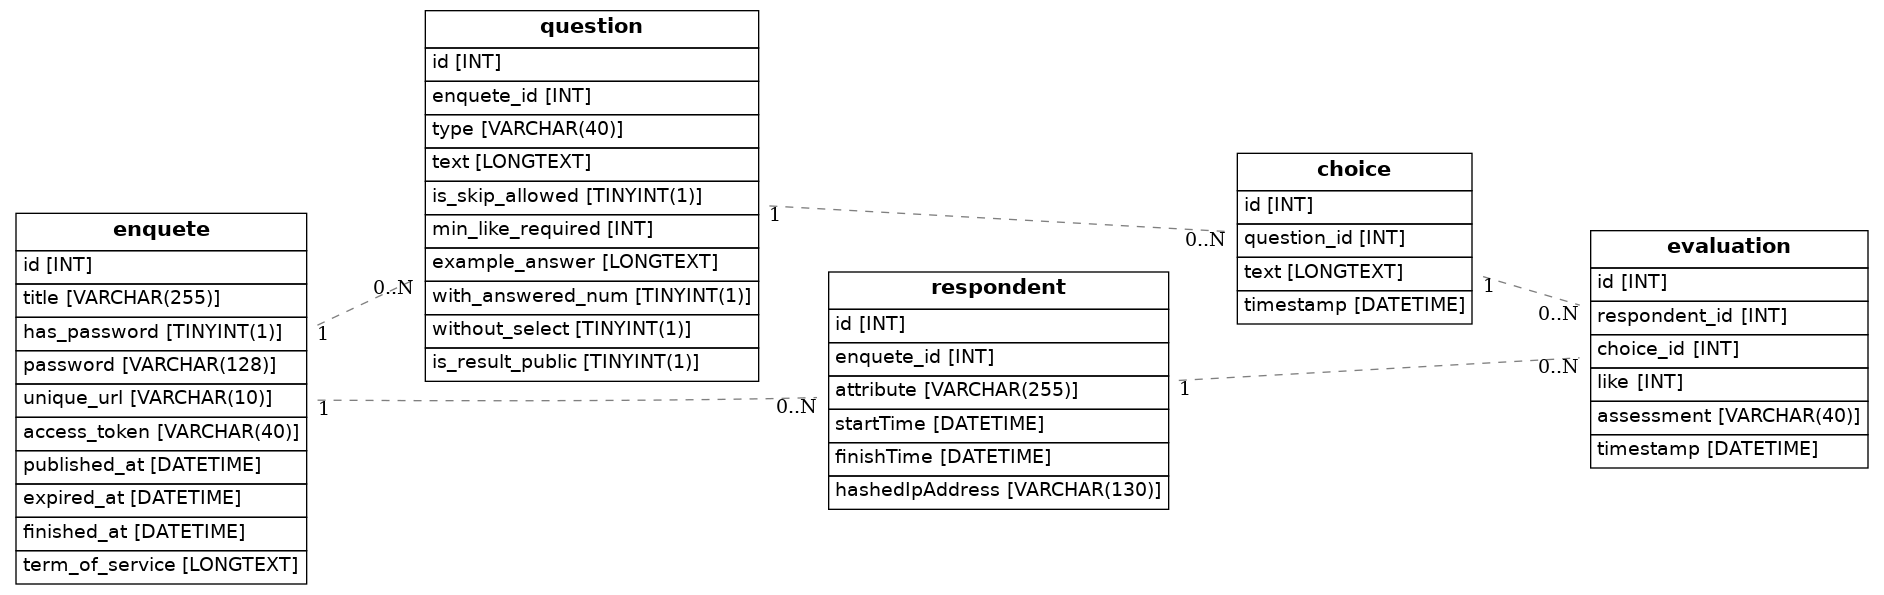
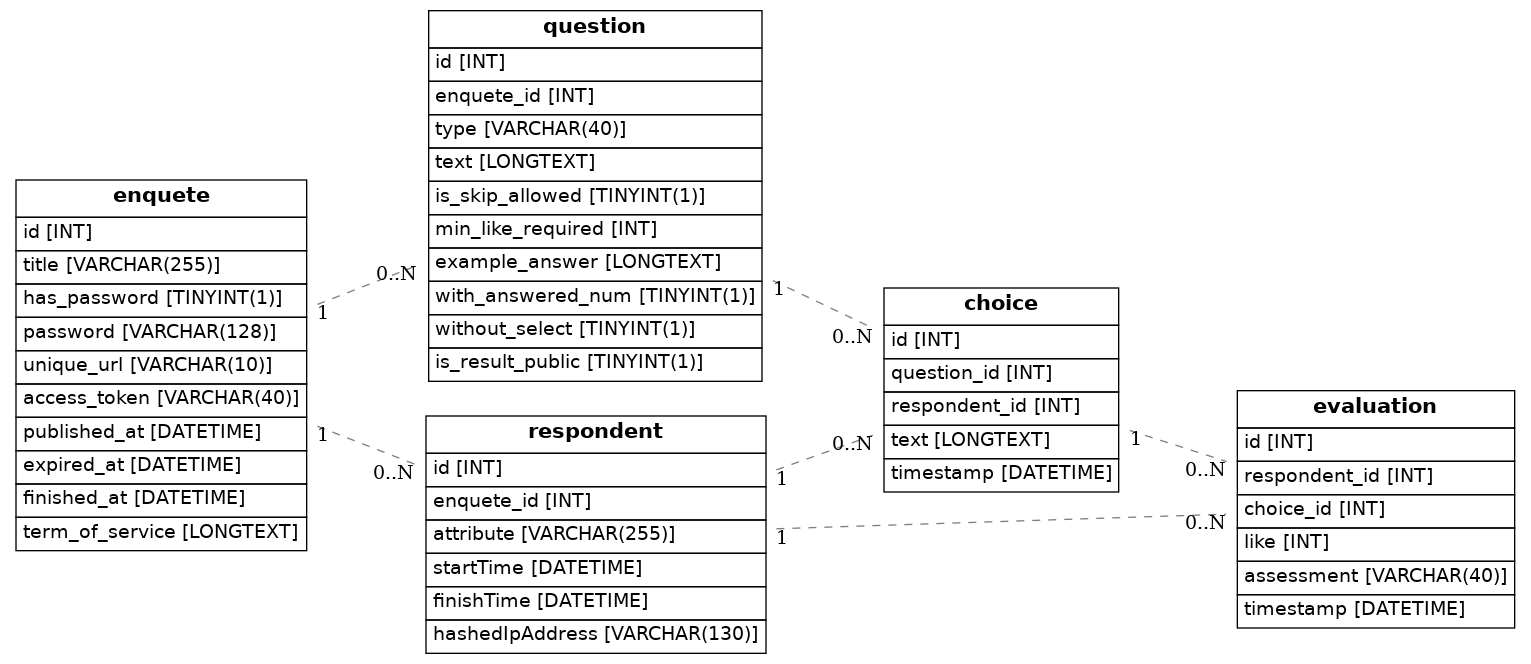
choiceモデルにrespondentの外部キーを追加

Changed region(s): [[0.0, 0.0, 1.0, 0.9983]]

diff --git a/django/AIST_survey/models/choice.py b/django/AIST_survey/models/choice.py
@@ -1,9 +1,10 @@
 import random
 
 from django.db import models
-from django.utils import timezone
-
 from . import Question
+# なぜか . からRespondentがimportできなかった
+from .respondent import Respondent
+from django.utils import timezone
 
 
 class ChoiceManager(models.Manager):
@@ -25,6 +26,7 @@ class ChoiceManager(models.Manager):
 
 class Choice(models.Model):
     question = models.ForeignKey(Question, on_delete=models.CASCADE, related_name='choices')
+    respondent = models.ForeignKey(Respondent, blank=True, null=True, on_delete=models.CASCADE)
     text = models.TextField(max_length=500)
     objects = ChoiceManager()
     timestamp = models.DateTimeField(default=timezone.now)

diff --git a/django/AIST_survey/util/add_answer.py b/django/AIST_survey/util/add_answer.py
@@ -33,7 +33,7 @@ def add_answer(enquete_id, answer_list, respondent_data, ip):
             # 自由回答のデータを追加
             if len(answer['answer']['free']) > 0:
                 for i in answer['answer']['free']:
-                    new_choice = Choice.objects.create(question=answer_question, text=i)
+                    new_choice = Choice.objects.create(question=answer_question, respondent=answer_respondent, text=i)
                     Evaluation.objects.create(
                         respondent=answer_respondent, choice=new_choice, like=1, assessment=Evaluation.PROPOSED
                     )

diff --git a/django/AIST_survey/admin.py b/django/AIST_survey/admin.py
@@ -269,13 +269,13 @@ class QuestionAdmin(admin.ModelAdmin):
 
 
 class ChoiceAdmin(admin.ModelAdmin):
-    fields = ['question', 'text', 'timestamp']
+    fields = ['question', 'respondent', 'text', 'timestamp']
     ordering = ['id']
     list_filter = [
         ('question__enquete', MyListFilter),
         ('question', ListFilterFromEnqueteForChoice)
     ]
-    list_display = ['id', 'enquete', 'question', 'text', 'timestamp']
+    list_display = ['id', 'enquete', 'question', 'respondent', 'text', 'timestamp']
     list_display_links = ['text']
 
     # list_displayに対応したメソッド

diff --git a/django/AIST_survey/migrations/0025_choice_respondent.py b/django/AIST_survey/migrations/0025_choice_respondent.py
@@ -1,0 +1,19 @@
+# Generated by Django 2.1.3 on 2020-08-12 09:56
+
+from django.db import migrations, models
+import django.db.models.deletion
+
+
+class Migration(migrations.Migration):
+
+    dependencies = [
+        ('AIST_survey', '0024_auto_20200318_1855'),
+    ]
+
+    operations = [
+        migrations.AddField(
+            model_name='choice',
+            name='respondent',
+            field=models.ForeignKey(blank=True, null=True, on_delete=django.db.models.deletion.CASCADE, to='AIST_survey.Respondent'),
+        ),
+    ]

diff --git a/docs/table_definition.md b/docs/table_definition.md
@@ -46,6 +46,7 @@
 |---|---|:---:|:---:|:---:|:---:|---|
 | ID | id | INT | - | NOT NULL | - | - |
 | 設問ID | question_id | INT | - | NOT NULL | - | 外部キー |
+| 回答者ID | respondent_id | INT | - | NULLABLE | - | 外部キー |
 | 本文 | text | LONGTEXT | - | NOT NULL | - | - |
 | タイムスタンプ | timestamp | DATETIME | - | NOT NULL | django.utils.timezone.now | 最初に作成された日時を記録 |
 
